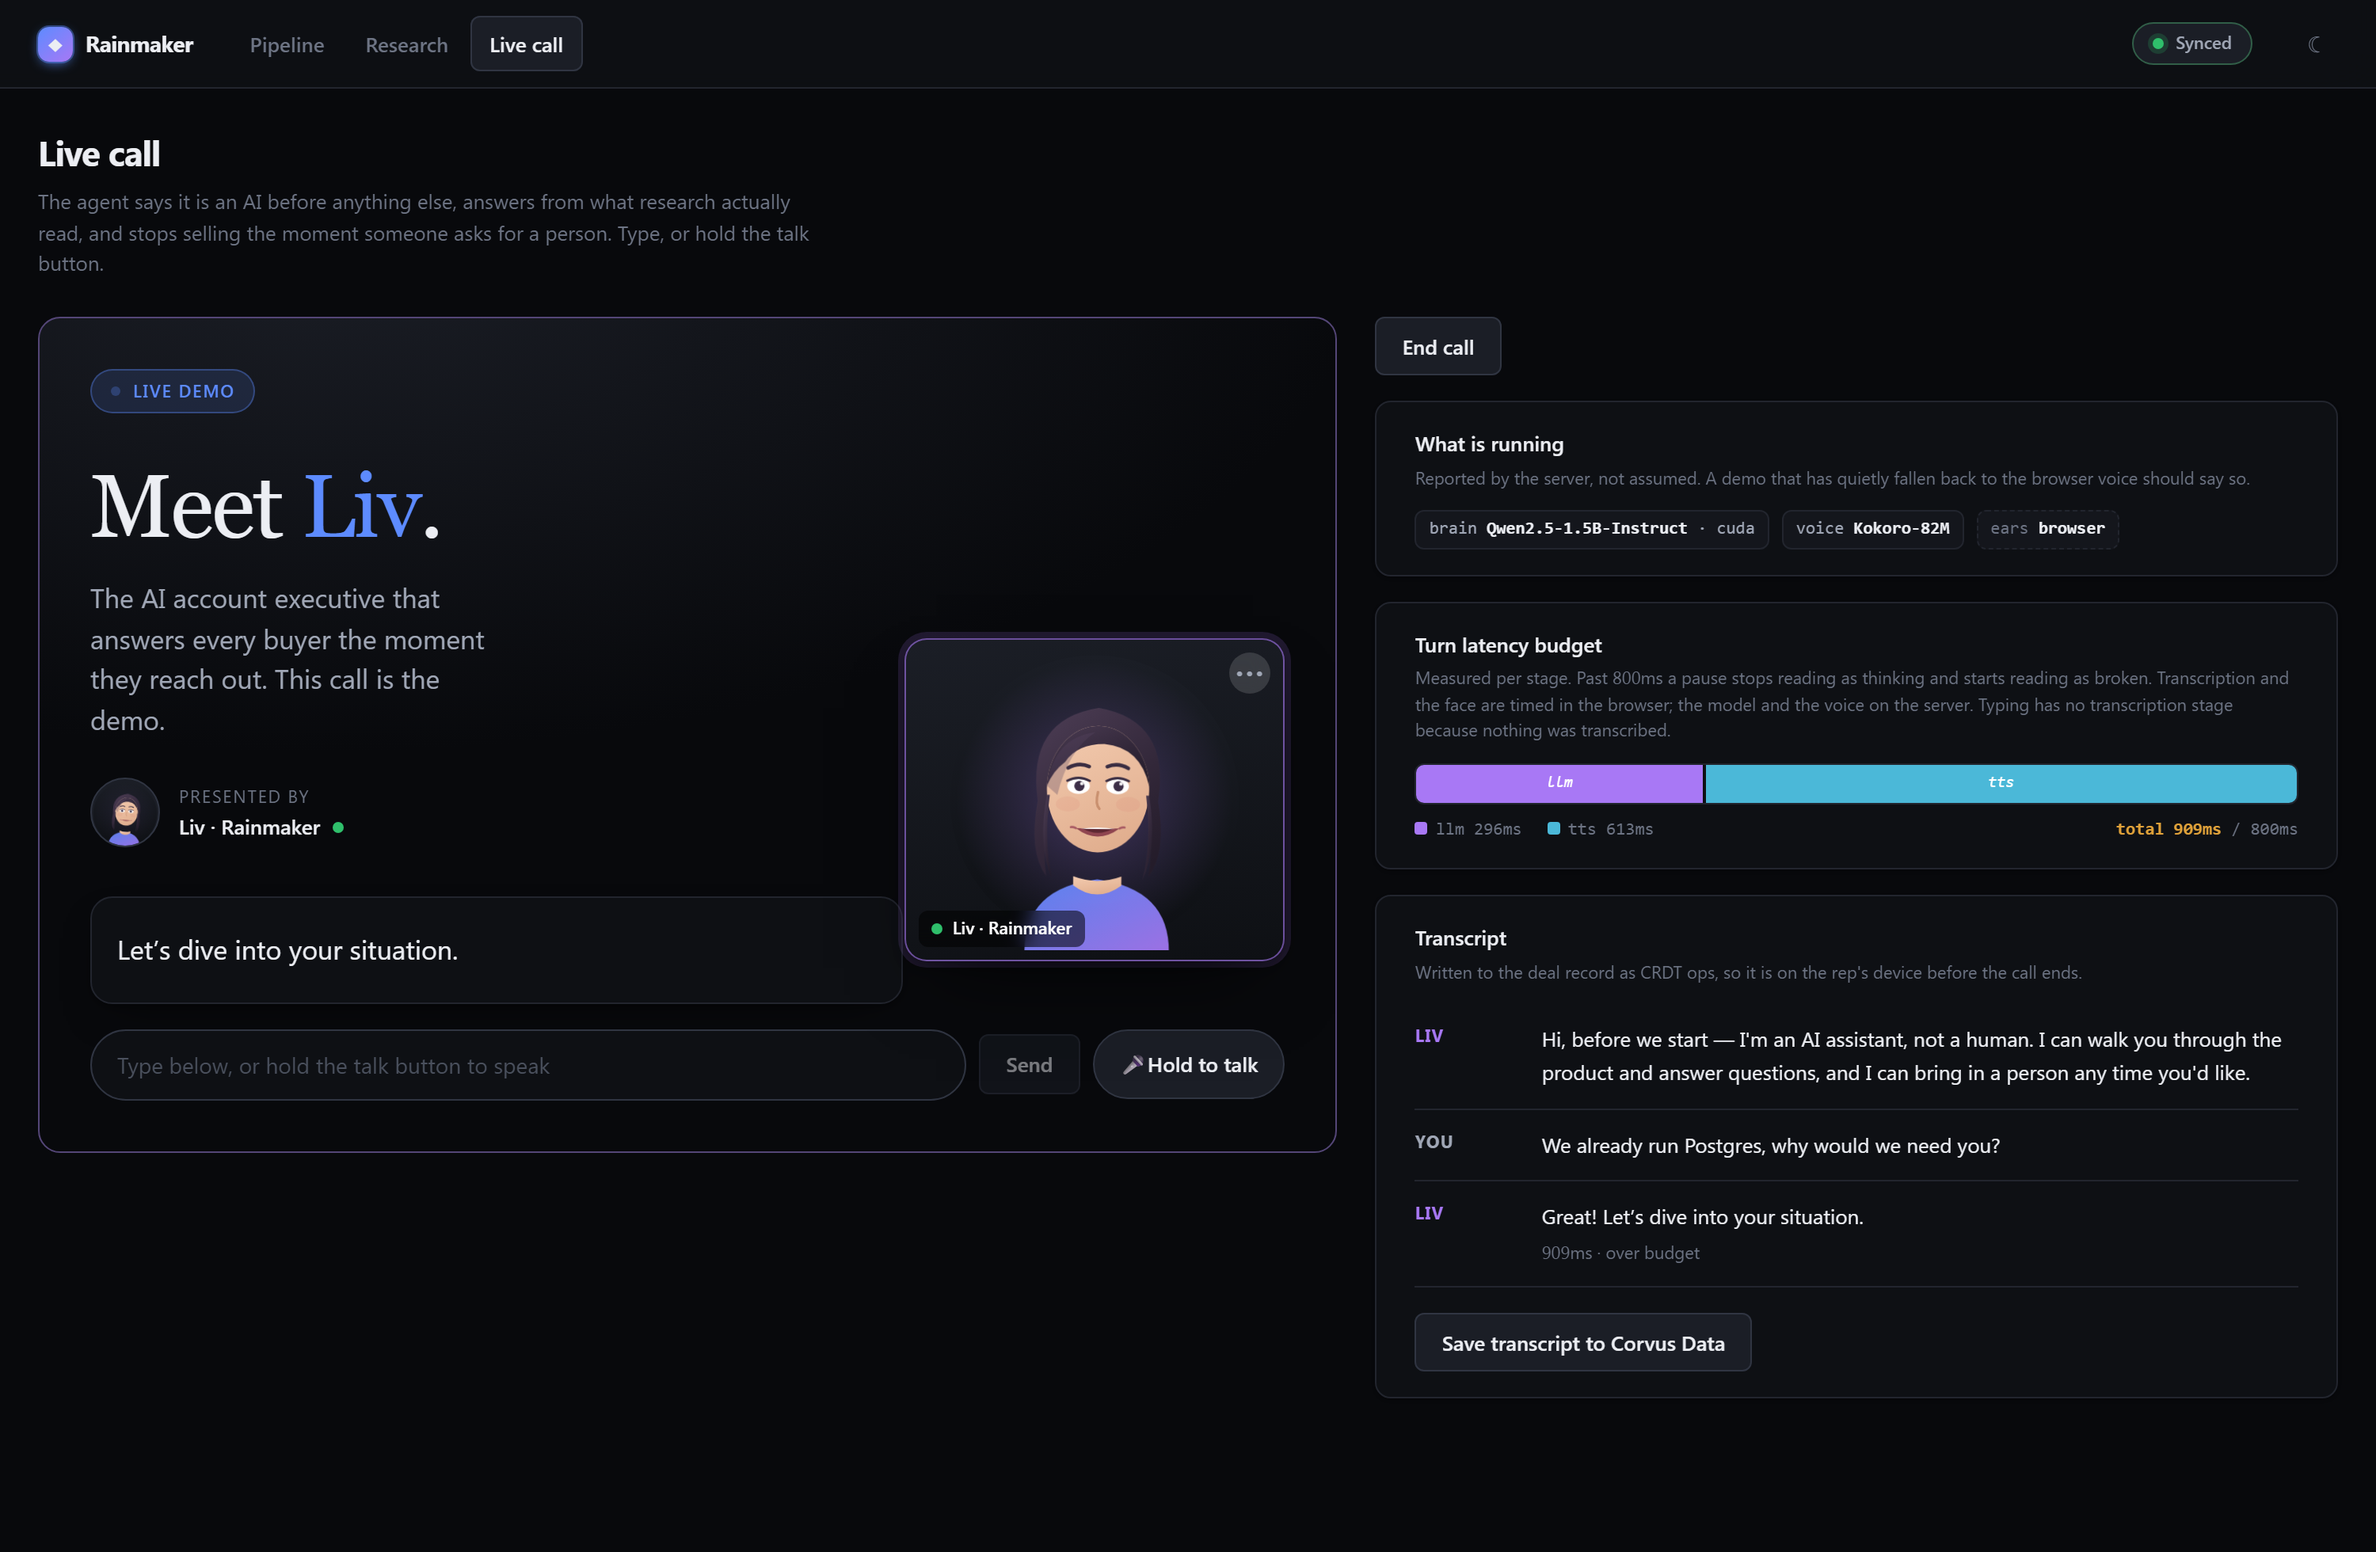
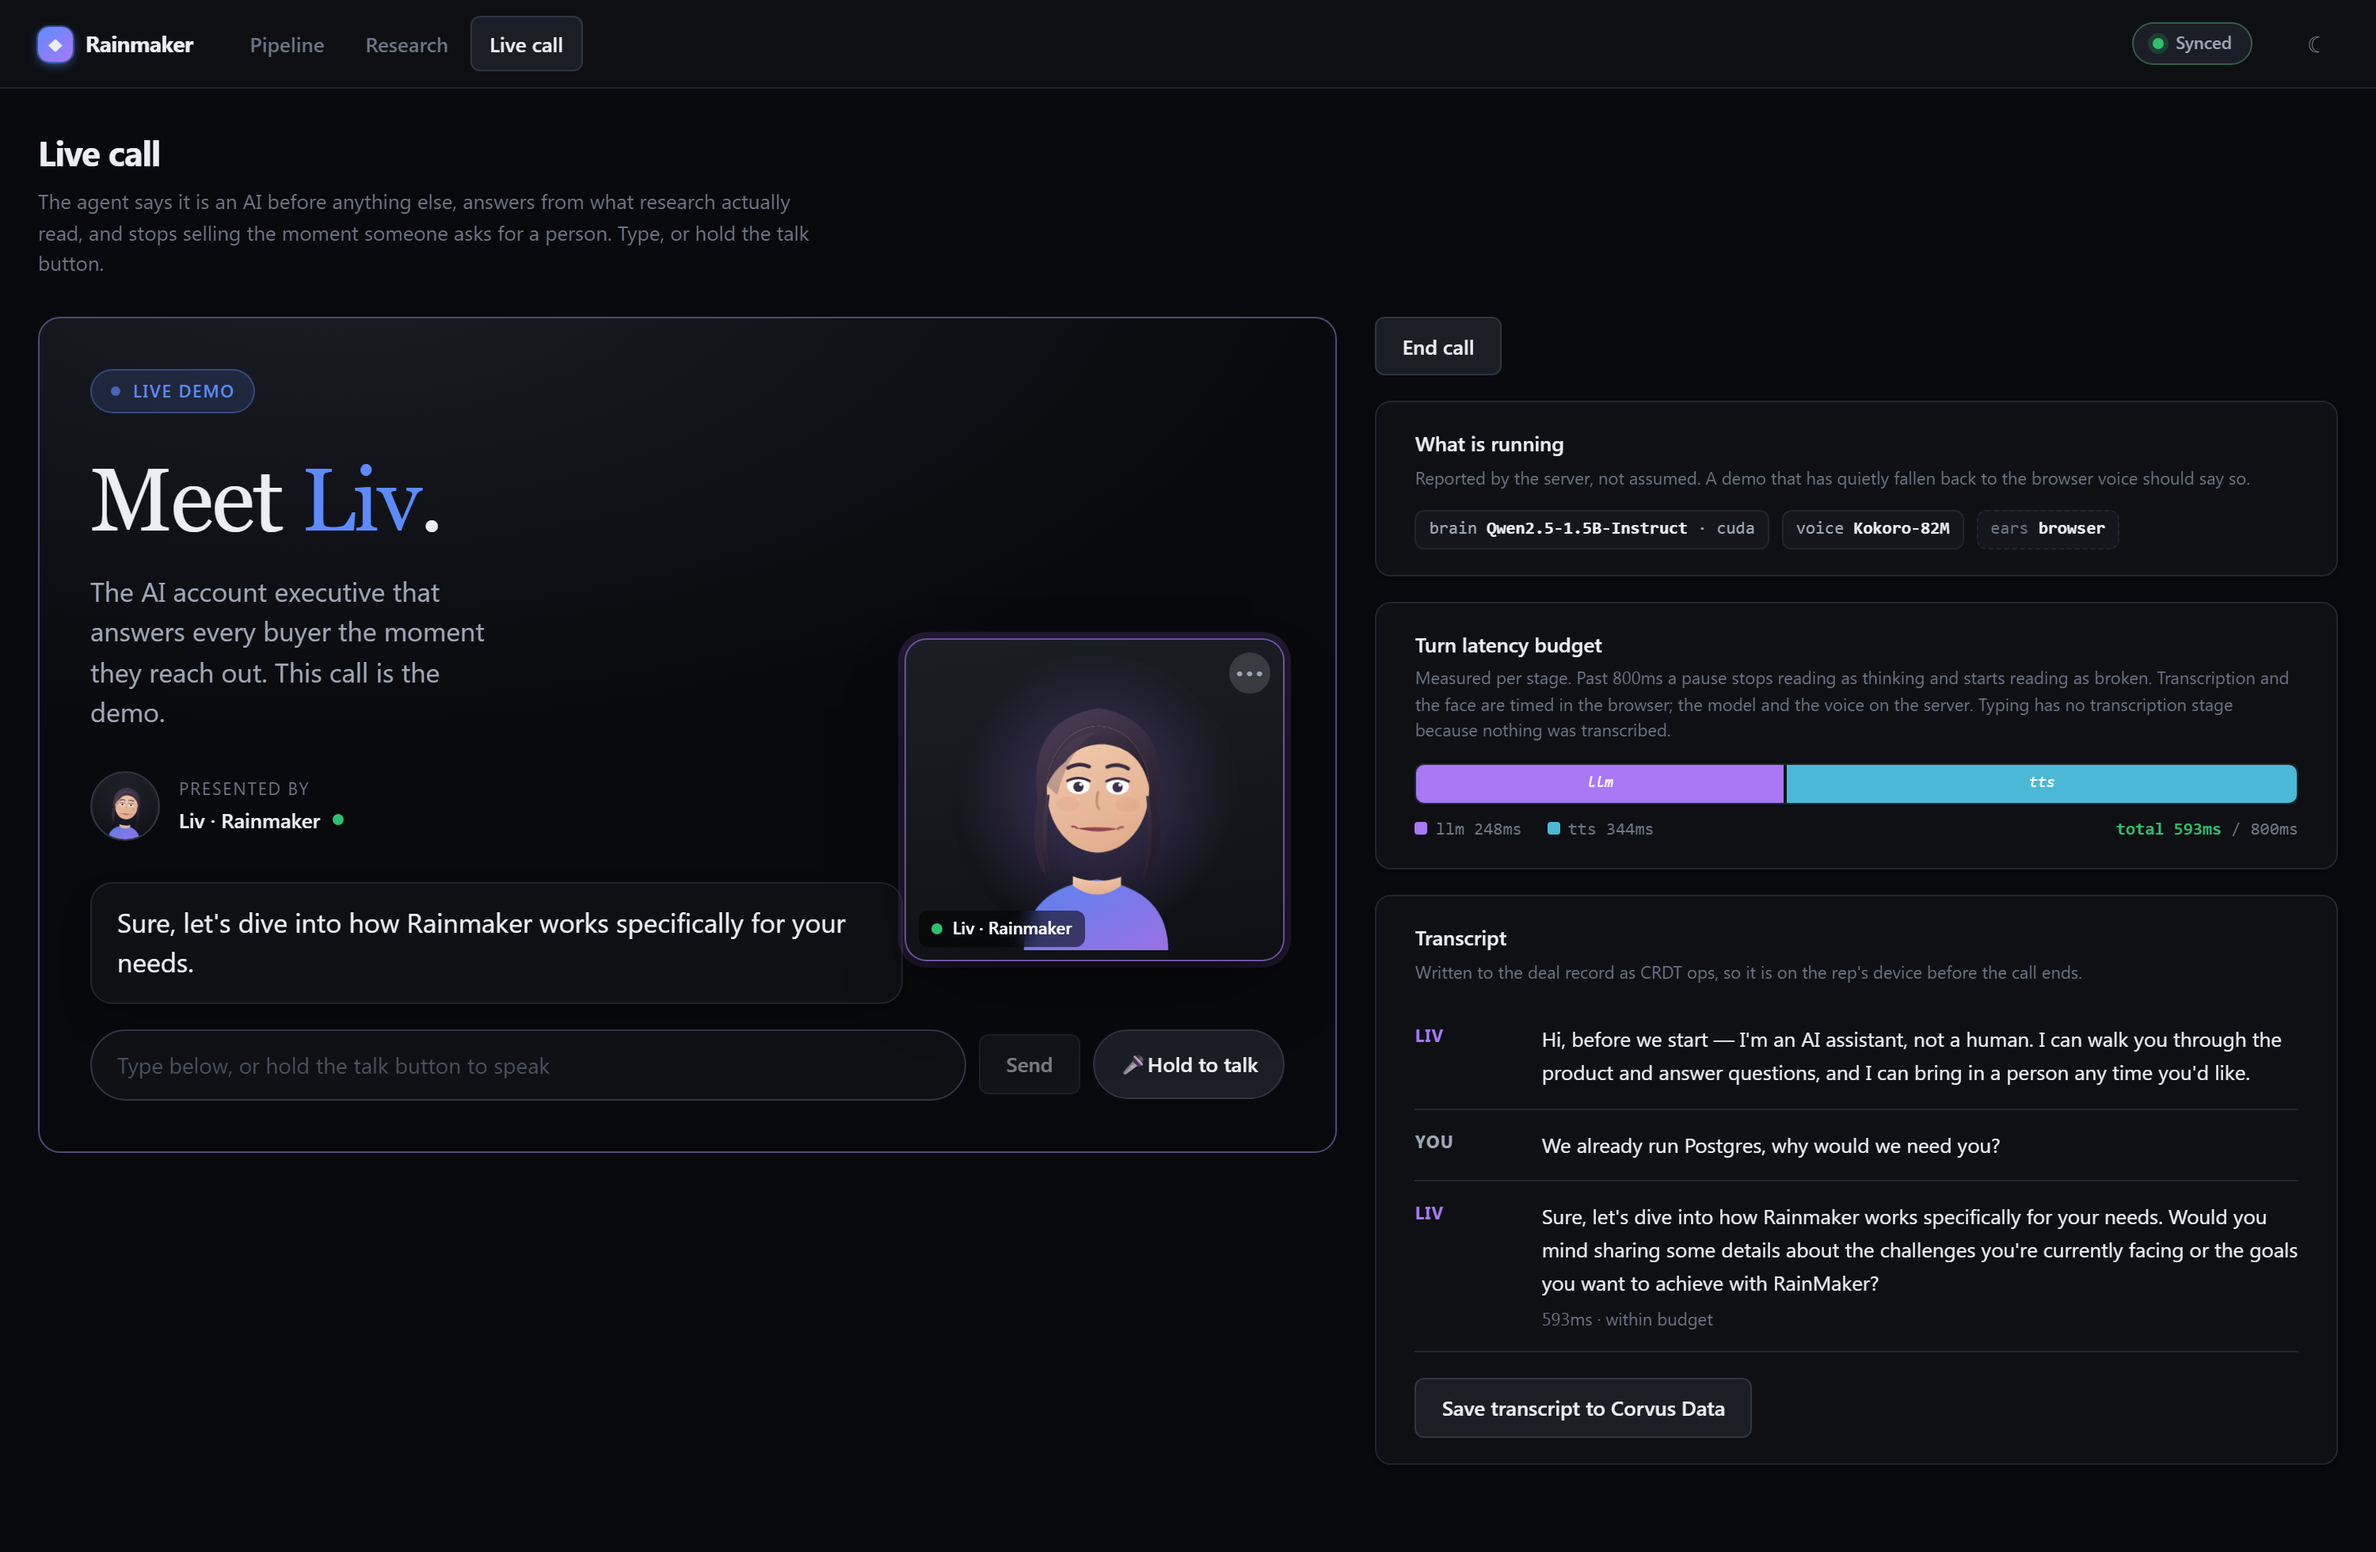
call: let the caption build a sentence rather than flash a clause
Clips are cut for synthesis latency, not for reading -- the first one is a
dozen characters -- so a caption showing only the clip currently playing
rendered "me bring someone" on its own. Correct, in sync with the audio, and
it reads as broken. The caption now accumulates across the turn and resets on
the next one, or on a barge-in.

diff --git a/apps/console/src/lib/call.ts b/apps/console/src/lib/call.ts
@@ -49,7 +49,7 @@ export interface Engines {
 export interface CallState {
   phase: CallPhase;
   turns: Turn[];
-  /** What the agent is saying right now — the caption bubble, one clause at a time. */
+  /** What the agent has said so far this turn — the caption bubble, built clause by clause. */
   caption: string;
   /** True only while audio is actually coming out. Drives the mouth. */
   speaking: boolean;
@@ -128,6 +128,8 @@ export class LiveCall {
   private listeners = new Set<(state: CallState) => void>();
   private state: CallState = { ...IDLE, micSupported: recognitionCtor() !== null };
 
+  /** The clauses spoken so far in the current turn, joined to make the caption. */
+  private captionParts: string[] = [];
   /** Set when a turn's first clip arrives; cleared once the face has moved. */
   private clipArrivedAt: number | null = null;
   private avatarMs: number | null = null;
@@ -178,6 +180,7 @@ export class LiveCall {
       return;
     }
 
+    this.captionParts = [];
     if (brief) socket.send(JSON.stringify({ type: "brief", ...brief }));
     socket.send(JSON.stringify({ type: "start" }));
     this.set({ phase: "greeting" });
@@ -242,6 +245,7 @@ export class LiveCall {
     this.stopAudio();
 
     this.pushTurn({ who: "prospect", text: trimmed });
+    this.captionParts = [];
     this.set({ phase: "thinking", partial: "", caption: "" });
     this.socket.send(
       JSON.stringify({
@@ -385,7 +389,13 @@ export class LiveCall {
       this.avatarMs = performance.now() - this.clipArrivedAt;
       this.clipArrivedAt = null;
     }
-    this.set({ caption: text, speaking: true, phase: "speaking" });
+    // THE CAPTION ACCUMULATES ACROSS THE TURN rather than being replaced per clip. Clips are
+    // cut for synthesis latency, not for reading: the first one is a dozen characters, so a
+    // caption that showed only the clip currently playing rendered "me bring someone" on its
+    // own — a fragment that is correct, is in sync with the audio, and reads as broken.
+    // Appending keeps it in sync AND leaves a whole sentence on screen.
+    this.captionParts.push(text);
+    this.set({ caption: this.captionParts.join(" "), speaking: true, phase: "speaking" });
   }
 
   private mouthOff(): void {
@@ -418,6 +428,7 @@ export class LiveCall {
     this.timers = [];
     this.nextStart = this.ctx ? this.ctx.currentTime : 0;
     if (typeof speechSynthesis !== "undefined") speechSynthesis.cancel();
+    this.captionParts = [];
     this.set({ speaking: false, caption: "" });
   }
 
